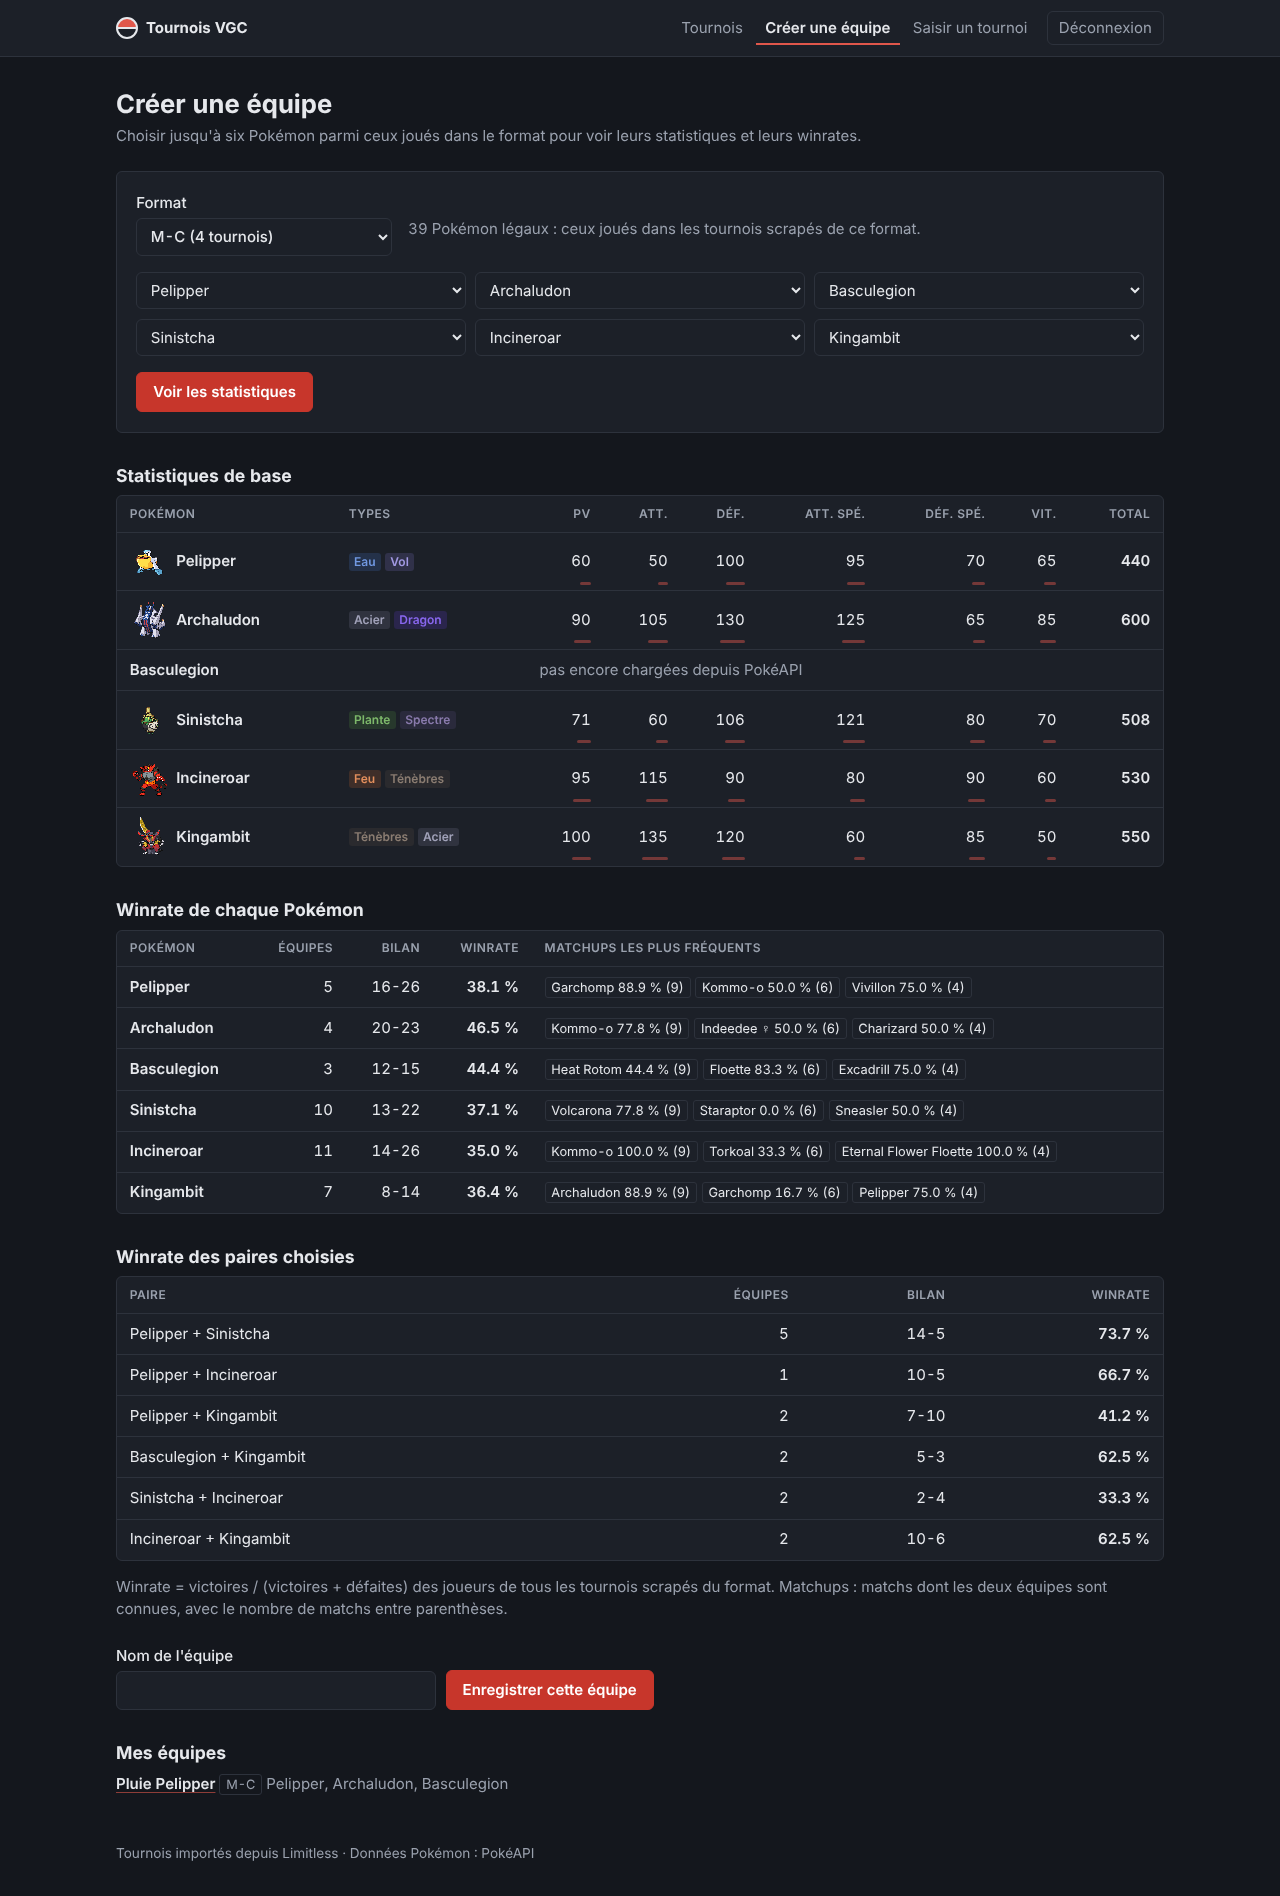
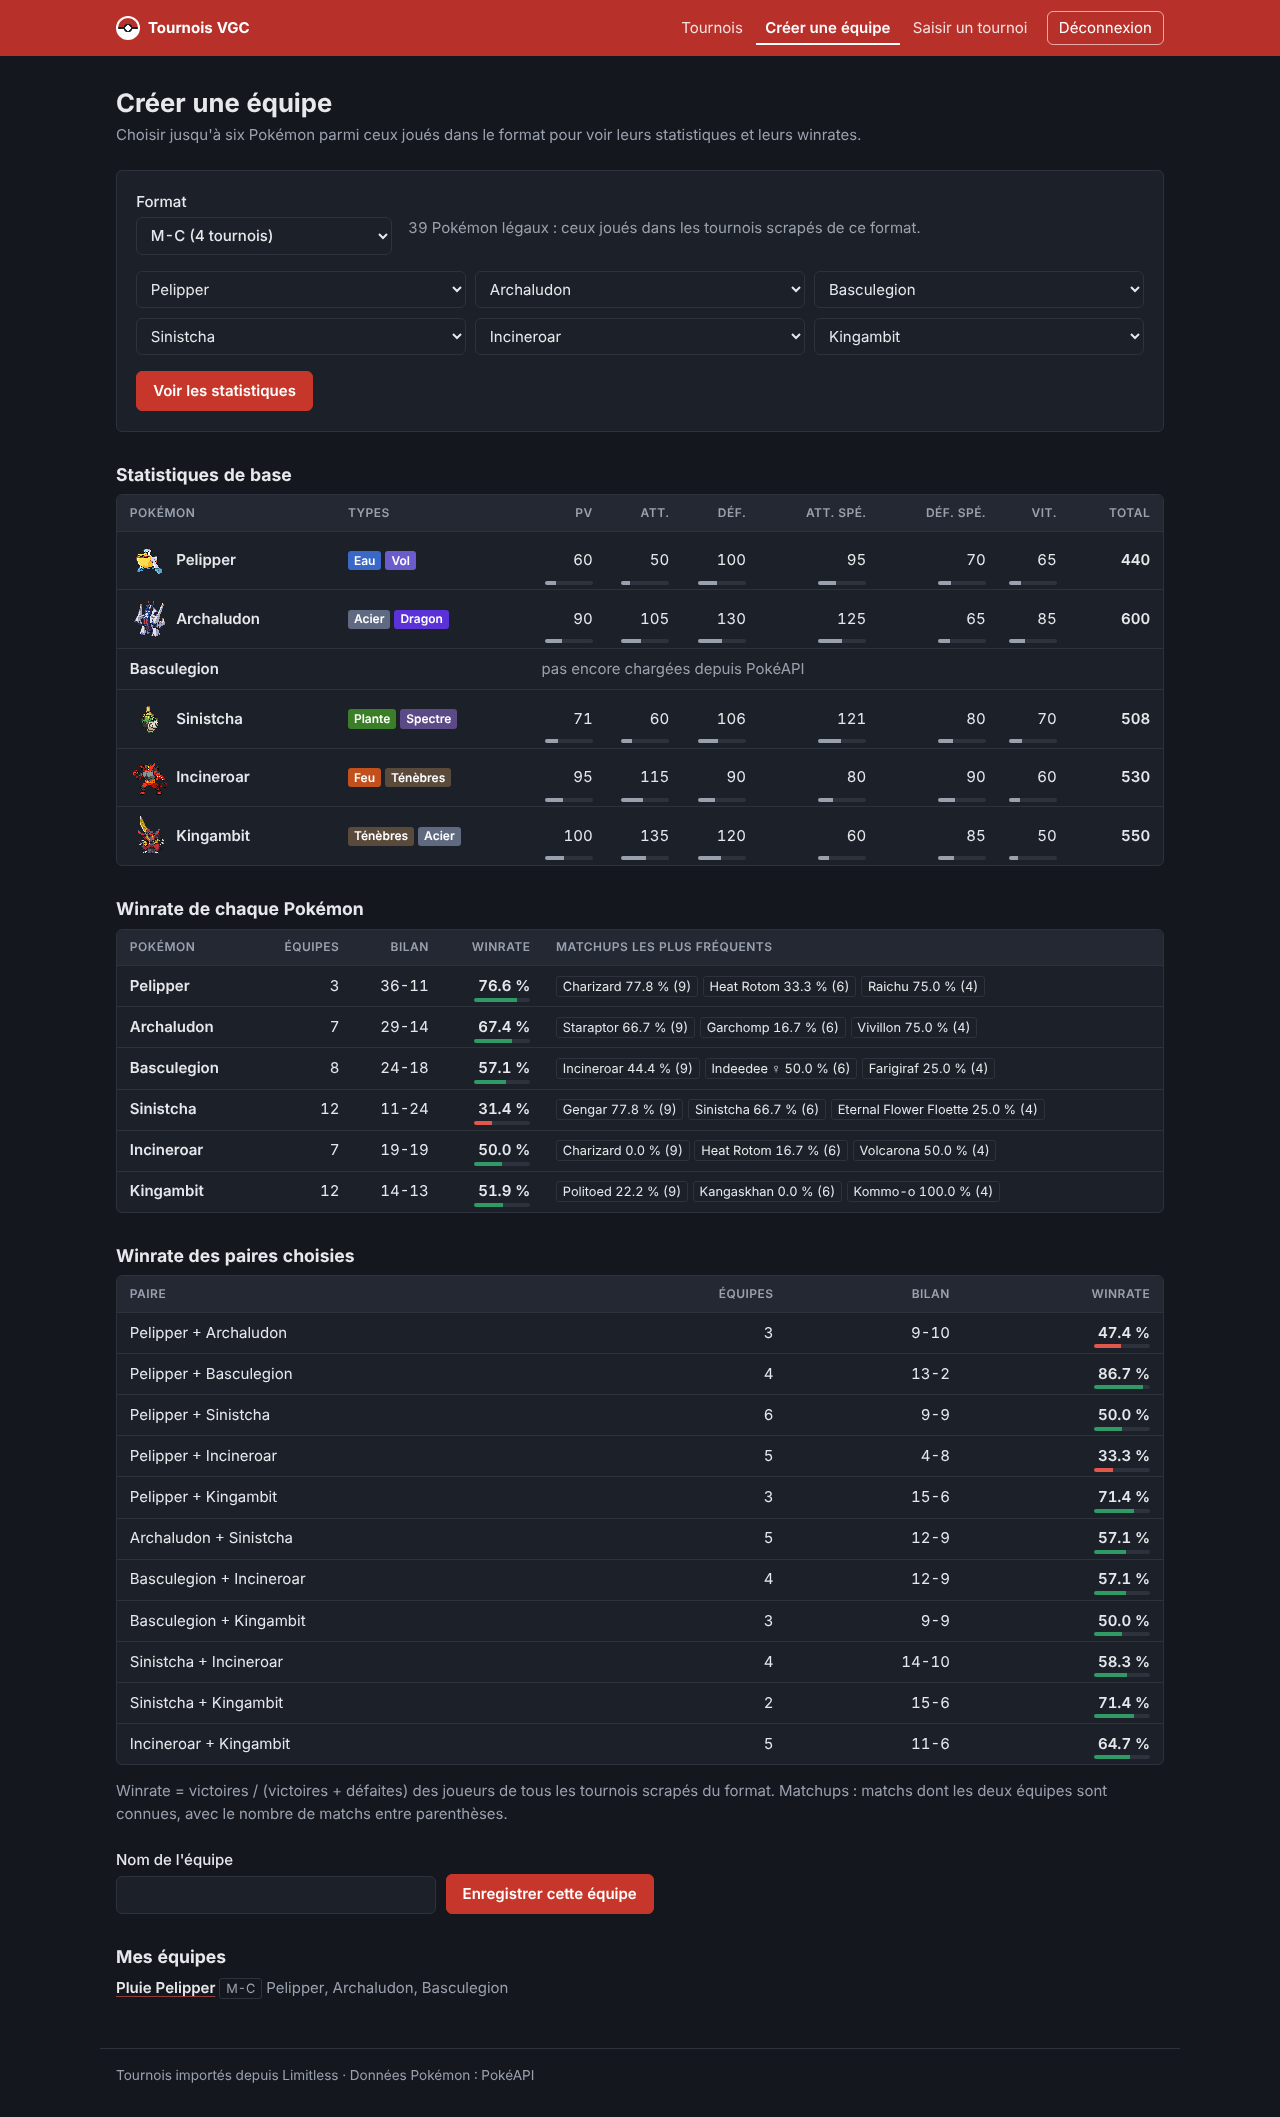
style(frontend): un peu plus de couleur sans perdre en lisibilité
Bandeau rouge, types en couleurs pleines (contraste ≥ 4,5), médailles
pour le top 3, sprites sur pastilles, cartes teintées par le premier
type, jauges de winrate vert/rouge (paire vérifiée pour le daltonisme)
et de statistiques de base.

Claude-Session: https://claude.ai/code/session_01PQWKmLo6vMcy11LaXKiBe6

diff --git a/services/frontend/app/static/style.css b/services/frontend/app/static/style.css
@@ -1,5 +1,5 @@
-/* Mise en page : une colonne centrée, en-tête clair, des tableaux et des listes plutôt que des cartes.
-   Couleurs : un fond gris bleuté, une encre sombre, un seul accent rouge (celui de la Poké Ball). */
+/* Mise en page : une colonne centrée sous un bandeau rouge, des tableaux et des listes plutôt que des cartes.
+   Couleurs : un fond gris bleuté, une encre sombre, le rouge de la Poké Ball, les couleurs des types. */
 :root {
   --bg: #f4f5f7;
   --surface: #fff;
@@ -10,6 +10,10 @@
   --accent-ink: #fff;
   --button: #c7362b; /* même rouge dans les deux thèmes : texte blanc lisible (contraste AA) */
   --ok: #1f7a4d;
+  --win: #1f7a4d; /* barres de winrate : paire vert/rouge vérifiée daltonisme (skill dataviz) */
+  --brand: #b8302a; /* bandeau : même rouge dans les deux thèmes */
+  --head: #eceef2; /* en-têtes de tableaux */
+  --gold: #e3b341; --silver: #b8bec8; --bronze: #c98a55;
   --radius: 6px;
   --font: system-ui, -apple-system, "Segoe UI", Roboto, "Helvetica Neue", Arial, sans-serif;
   color-scheme: light;
@@ -23,6 +27,8 @@
     --line: #2d323c;
     --accent: #e0574b;
     --ok: #4fbf87;
+    --win: #2f9a66;
+    --head: #232833;
     color-scheme: dark;
   }
 }
@@ -37,29 +43,33 @@ body {
 }
 a { color: inherit; text-decoration-color: color-mix(in srgb, var(--accent) 60%, transparent); text-underline-offset: 3px; }
 a:hover { color: var(--accent); }
+.site-header a:hover { color: #fff; }
+.site-header :focus-visible { outline-color: #fff; }
 :focus-visible { outline: 2px solid var(--accent); outline-offset: 2px; }
 h1, h2 { line-height: 1.2; text-wrap: balance; }
 h1 { font-size: 1.6rem; margin: 0 0 0.3rem; }
 h2 { font-size: 1.1rem; margin: 2rem 0 0.6rem; }
 code { background: var(--line); padding: 0 0.3em; border-radius: 3px; }
 
-/* En-tête */
-.site-header { background: var(--surface); border-bottom: 1px solid var(--line); }
+/* En-tête : bandeau rouge */
+.site-header { background: var(--brand); color: #fff; }
 .site-header .inner { display: flex; flex-wrap: wrap; align-items: center; justify-content: space-between; gap: 0.5rem 1.5rem; padding-block: 0.7rem; }
 .brand { display: flex; align-items: center; gap: 0.5rem; font-weight: 700; text-decoration: none; }
 .brand::before { /* Poké Ball minimaliste */
-  content: ""; width: 18px; height: 18px; border-radius: 50%; border: 2px solid var(--ink);
-  background: linear-gradient(var(--accent) 0 44%, var(--ink) 44% 56%, var(--surface) 56%);
+  content: ""; width: 20px; height: 20px; border-radius: 50%; border: 2px solid #fff;
+  background: radial-gradient(circle, #fff 0 18%, #1c2230 19% 30%, transparent 31%), linear-gradient(var(--brand) 0 44%, #1c2230 44% 56%, #fff 56%);
 }
 nav { display: flex; flex-wrap: wrap; align-items: center; gap: 0.2rem; }
-nav a { padding: 0.35rem 0.6rem; border-radius: var(--radius); text-decoration: none; color: var(--muted); }
-nav a:hover { color: var(--ink); background: var(--bg); }
-nav a[aria-current="page"] { color: var(--ink); font-weight: 600; box-shadow: inset 0 -2px var(--accent); border-radius: 0; }
+nav a { padding: 0.35rem 0.6rem; border-radius: var(--radius); text-decoration: none; color: rgb(255 255 255 / 0.85); }
+nav a:hover { color: #fff; background: rgb(0 0 0 / 0.15); }
+nav a[aria-current="page"] { color: #fff; font-weight: 600; box-shadow: inset 0 -2px #fff; border-radius: 0; }
+nav button.quiet { color: #fff; border-color: rgb(255 255 255 / 0.6); }
+nav button.quiet:hover { color: #fff; border-color: #fff; background: rgb(0 0 0 / 0.15); }
 nav form { margin: 0 0 0 0.4rem; }
 
 .inner { max-width: 1080px; margin: 0 auto; padding-left: max(16px, env(safe-area-inset-left, 0px)); padding-right: max(16px, env(safe-area-inset-right, 0px)); }
 main.inner { padding-block: 2rem 3rem; }
-.site-footer { color: var(--muted); font-size: 0.85rem; padding-block: 0 2rem; }
+.site-footer { color: var(--muted); font-size: 0.85rem; padding-block: 1rem 2rem; border-top: 1px solid var(--line); }
 
 /* Texte secondaire et messages */
 .meta, .country, .item, .ability { color: var(--muted); }
@@ -75,7 +85,7 @@ main.inner { padding-block: 2rem 3rem; }
 table { width: 100%; border-collapse: collapse; }
 th, td { padding: 0.55rem 0.8rem; border-bottom: 1px solid var(--line); text-align: left; vertical-align: middle; }
 tbody tr:last-child td { border-bottom: 0; }
-th { font-size: 0.75rem; font-weight: 600; text-transform: uppercase; letter-spacing: 0.04em; color: var(--muted); }
+th { background: var(--head); font-size: 0.75rem; font-weight: 600; text-transform: uppercase; letter-spacing: 0.04em; color: var(--muted); }
 tbody tr:hover { background: color-mix(in srgb, var(--bg) 60%, var(--surface)); }
 .num { white-space: nowrap; text-align: right; }
 .strong { font-weight: 600; }
@@ -105,19 +115,17 @@ fieldset label { flex-direction: row; align-items: center; gap: 0.5rem; font-wei
 .auth h1 { margin-bottom: 1rem; }
 .auth button { width: 100%; }
 
-/* Types (couleurs des jeux, adoucies) */
+/* Types : couleurs des jeux, assombries pour que le texte blanc reste lisible (contraste ≥ 4,5) */
 .type {
-  display: inline-block; padding: 0 0.45em; border-radius: 3px; font-size: 0.75rem; font-weight: 600;
-  --t: #8a8f99;
-  color: color-mix(in srgb, var(--t) 75%, var(--ink));
-  background: color-mix(in srgb, var(--t) 18%, var(--surface));
+  display: inline-block; padding: 0.05em 0.5em; border-radius: 3px; font-size: 0.75rem; font-weight: 600;
+  --t: #5f6a80; color: #fff; background: var(--t);
 }
 .types { display: flex; flex-wrap: wrap; gap: 0.25rem; }
-.t-normal { --t: #9a9a78; } .t-fire { --t: #e0702c; } .t-water { --t: #4a7fe0; } .t-electric { --t: #d4a800; }
-.t-grass { --t: #5aa83e; } .t-ice { --t: #5cbcbc; } .t-fighting { --t: #b8322a; } .t-poison { --t: #9a44a0; }
-.t-ground { --t: #c99a45; } .t-flying { --t: #8b7ee0; } .t-psychic { --t: #e5487a; } .t-bug { --t: #8fa021; }
-.t-rock { --t: #a8923a; } .t-ghost { --t: #6a5596; } .t-dragon { --t: #6a3cf0; } .t-dark { --t: #6b5848; }
-.t-steel { --t: #8a8aa8; } .t-fairy { --t: #d27a9a; }
+.t-normal { --t: #737353; } .t-fire { --t: #c2501d; } .t-water { --t: #3a68c8; } .t-electric { --t: #8a6d00; }
+.t-grass { --t: #3a7f27; } .t-ice { --t: #2a7d7d; } .t-fighting { --t: #a8302a; } .t-poison { --t: #8a3a92; }
+.t-ground { --t: #94702e; } .t-flying { --t: #6a5ccc; } .t-psychic { --t: #c83866; } .t-bug { --t: #6a7a14; }
+.t-rock { --t: #857230; } .t-ghost { --t: #5c4a86; } .t-dragon { --t: #5a32d8; } .t-dark { --t: #5a4a3c; }
+.t-steel { --t: #5f6a80; } .t-fairy { --t: #b0507a; }
 
 .sprite { image-rendering: pixelated; flex: none; }
 .flag { vertical-align: -1px; border-radius: 2px; }
@@ -135,17 +143,23 @@ fieldset label { flex-direction: row; align-items: center; gap: 0.5rem; font-wei
 .standings summary::after { content: "›"; color: var(--muted); font-size: 1.2rem; transition: transform 0.15s; justify-self: end; }
 .standings details[open] summary::after { transform: rotate(90deg); }
 .standings summary:hover { background: color-mix(in srgb, var(--bg) 60%, var(--surface)); }
-.place { font-weight: 700; text-align: center; }
-.top .place { color: var(--accent); }
+.place {
+  display: grid; place-items: center; width: 2rem; height: 2rem; border-radius: 50%;
+  font-weight: 700; background: var(--head);
+}
+.p1 .place { background: var(--gold); color: #3d2c00; }
+.p2 .place { background: var(--silver); color: #23272e; }
+.p3 .place { background: var(--bronze); color: #3a2010; }
 .player { min-width: 0; }
 .player strong { display: block; overflow-wrap: anywhere; }
 .player .country { font-size: 0.8rem; }
 .record { white-space: nowrap; }
 .roster { display: flex; flex-wrap: wrap; gap: 0.2rem; min-width: 0; }
-.roster span { display: flex; align-items: center; justify-content: center; width: 44px; height: 44px; font-size: 0.6rem; line-height: 1.1; text-align: center; color: var(--muted); overflow-wrap: anywhere; }
+.roster span { display: flex; align-items: center; justify-content: center; width: 46px; height: 46px; border-radius: 50%; background: var(--head); font-size: 0.6rem; line-height: 1.1; text-align: center; color: var(--muted); overflow-wrap: anywhere; }
 
 .sets { display: grid; grid-template-columns: repeat(auto-fill, minmax(15rem, 1fr)); gap: 0.6rem; padding: 0.2rem 0.8rem 1rem 3.8rem; }
-.mon { border: 1px solid var(--line); border-radius: var(--radius); padding: 0.6rem 0.75rem; font-size: 0.85rem; display: flex; flex-direction: column; gap: 0.25rem; }
+:where(.mon) { --t: var(--muted); } /* teinte par défaut, la classe t-<type> l'emporte */
+.mon { border: 1px solid color-mix(in srgb, var(--t) 30%, var(--line)); background: color-mix(in srgb, var(--t) 6%, var(--surface)); border-radius: var(--radius); padding: 0.6rem 0.75rem; font-size: 0.85rem; display: flex; flex-direction: column; gap: 0.25rem; }
 .mon-head { display: flex; flex-wrap: wrap; align-items: baseline; gap: 0.2rem 0.5rem; }
 .moves { margin: 0.2rem 0 0; padding-left: 1rem; }
 .moves .meta { font-size: 0.78rem; }
@@ -163,11 +177,15 @@ fieldset label { flex-direction: row; align-items: center; gap: 0.5rem; font-wei
 .toolbar { display: flex; flex-wrap: wrap; align-items: end; gap: 1rem; }
 .toolbar label { width: 16rem; max-width: 100%; }
 .mon-name { display: flex; align-items: center; gap: 0.4rem; font-weight: 600; white-space: nowrap; }
-.stat { position: relative; }
-.stat::after { /* barre proportionnelle à la statistique de base (max 255) */
-  content: ""; position: absolute; right: 0.8rem; bottom: 0.35rem; height: 3px; border-radius: 2px;
-  width: calc(3rem * var(--v) / 255); background: color-mix(in srgb, var(--accent) 45%, transparent);
+/* Petites jauges sous les nombres : statistique de base (sur 255) et winrate (sur 100 %) */
+.stat, .rate { position: relative; }
+.stat::after, .rate::after {
+  content: ""; position: absolute; right: 0.8rem; bottom: 0.3rem; width: var(--len); height: 4px; border-radius: 2px;
+  background: linear-gradient(90deg, var(--fill) var(--pct), var(--line) 0);
 }
+.stat { --len: 3rem; --fill: var(--muted); --pct: calc(var(--v) * 100% / 255); }
+.rate { --len: 3.5rem; --fill: var(--win); --pct: calc(var(--w) * 1%); }
+.rate.low { --fill: var(--accent); } /* sous 50 % */
 .matchups { display: flex; flex-wrap: wrap; gap: 0.3rem; }
 .save { display: flex; flex-wrap: wrap; align-items: end; gap: 0.6rem; margin-top: 1.5rem; }
 .save label { width: 20rem; max-width: 100%; }
@@ -181,8 +199,9 @@ fieldset label { flex-direction: row; align-items: center; gap: 0.5rem; font-wei
 form:has(input[value="winner"]:checked) .entry tbody tr:not(:first-child) { opacity: 0.35; }
 
 @media (max-width: 640px) {
-  .standings summary, .standings .row { grid-template-columns: 1.8rem 1fr auto 1rem; }
+  .standings summary, .standings .row { grid-template-columns: 2rem 1fr auto 1rem; }
   .roster { grid-column: 2 / -1; grid-row: 2; }
+  .roster span, .roster .sprite { width: 40px; height: 40px; } /* 6 sprites sur une ligne */
   .sets { padding-left: 0.8rem; }
   .slots { grid-template-columns: repeat(2, minmax(0, 1fr)); }
   .site-header .inner { flex-direction: column; align-items: flex-start; }

diff --git a/services/frontend/app/templates/builder.html b/services/frontend/app/templates/builder.html
@@ -1,6 +1,7 @@
 {% extends "base.html" %}
 {% block title %}Créer une équipe{% endblock %}
 {% macro pct(r) %}{% if r.winrate is not none %}{{ "%.1f" | format(r.winrate * 100) }} %{% else %}-{% endif %}{% endmacro %}
+{% macro rate(r) %}<td class="num strong rate{% if r.winrate is not none and r.winrate < 0.5 %} low{% endif %}" style="--w: {{ ((r.winrate or 0) * 100) | round(1) }}">{{ pct(r) }}</td>{% endmacro %}
 {% block content %}
 <h1>Créer une équipe</h1>
 {% if not formats %}
@@ -52,7 +53,7 @@
   <tbody>
   {% for r in stats %}
     <tr>
-      <td class="strong">{{ r.pokemon }}</td><td class="num">{{ r.teams }}</td><td class="num">{{ r.wins }}-{{ r.losses }}</td><td class="num strong">{{ pct(r) }}</td>
+      <td class="strong">{{ r.pokemon }}</td><td class="num">{{ r.teams }}</td><td class="num">{{ r.wins }}-{{ r.losses }}</td>{{ rate(r) }}
       <td><div class="matchups">{% for m in matchups[r.pokemon] %}<span>{{ m.opponent }} {{ pct(m) }} ({{ m.games }})</span>{% else %}<span class="meta">aucun</span>{% endfor %}</div></td>
     </tr>
   {% endfor %}
@@ -66,7 +67,7 @@
   <thead><tr><th>Paire</th><th class="num">Équipes</th><th class="num">Bilan</th><th class="num">Winrate</th></tr></thead>
   <tbody>
   {% for r in pairs %}
-    <tr><td>{{ r.pokemon1 }} + {{ r.pokemon2 }}</td><td class="num">{{ r.teams }}</td><td class="num">{{ r.wins }}-{{ r.losses }}</td><td class="num strong">{{ pct(r) }}</td></tr>
+    <tr><td>{{ r.pokemon1 }} + {{ r.pokemon2 }}</td><td class="num">{{ r.teams }}</td><td class="num">{{ r.wins }}-{{ r.losses }}</td>{{ rate(r) }}</tr>
   {% endfor %}
   </tbody>
 </table>

diff --git a/services/frontend/app/templates/tournament.html b/services/frontend/app/templates/tournament.html
@@ -22,13 +22,13 @@
 <p class="meta">Cliquer sur un joueur pour voir les objets, talents et attaques de son équipe.</p>
 <ol class="standings">
 {% for s in t.standings %}
-  <li{% if s.placement and s.placement <= 3 %} class="top"{% endif %}>
+  <li{% if s.placement and s.placement <= 3 %} class="p{{ s.placement }}"{% endif %}>
   {% if s.team %}
     <details>
       <summary>{{ row(s) }}</summary>
       <div class="sets">
       {% for p in s.team %}
-        <div class="mon">
+        <div class="mon{% if p.types %} t-{{ p.types[0] }}{% endif %}">
           <div class="mon-head"><strong>{{ p.name }}</strong>{% if p.item %} <span class="item">@ {{ p.item }}</span>{% endif %}</div>
           {% if p.types %}<div class="types">{% for ty in p.types %}<span class="type t-{{ ty }}">{{ ty | type_fr }}</span>{% endfor %}</div>{% endif %}
           {% if p.ability %}<div class="ability">{{ p.ability }}</div>{% endif %}

diff --git a/services/frontend/tests/test_pages.py b/services/frontend/tests/test_pages.py
@@ -138,6 +138,8 @@ def test_detail_affiche_le_classement_et_l_equipe(api):
         "Close Combat</li>" in resp.text
     )  # sans détails tant qu'elle n'est pas enrichie
     assert 'src="https://flagcdn.com/w20/jp.png"' in resp.text
+    assert '<li class="p1">' in resp.text  # médaille d'or du 1er
+    assert '<div class="mon t-normal">' in resp.text  # carte teintée par le 1er type
     assert resp.text.count('class="sprite"') == 1  # Indeedee n'a pas de sprite
 
 
@@ -374,7 +376,7 @@ def stats_api(monkeypatch):
         "http://api/api/formats/F1/legal-pokemon": ["X", "Y", "Z"],
         f"http://api/api/stats/pokemon?{q}": [
             {"pokemon": "X", "teams": 2, "wins": 5, "losses": 1, "winrate": 0.8333},
-            {"pokemon": "Y", "teams": 2, "wins": 4, "losses": 2, "winrate": 0.6667},
+            {"pokemon": "Y", "teams": 2, "wins": 2, "losses": 3, "winrate": 0.4},
         ],
         f"http://api/api/stats/combinations?{q}": [
             {
@@ -422,6 +424,10 @@ def test_builder_affiche_les_winrates(stats_api):
     )
     assert "83.3 %" in resp.text and "X + Y" in resp.text and "100.0 %" in resp.text
     assert "Z 100.0 % (5)" in resp.text  # matchup
+    assert '<td class="num strong rate" style="--w: 83.3">83.3 %</td>' in resp.text
+    assert (
+        '<td class="num strong rate low" style="--w: 40.0">40.0 %</td>' in resp.text
+    )  # < 50 % : jauge rouge
     assert '<span class="type t-water">Eau</span>' in resp.text
     assert '<td class="num strong">21</td>' in resp.text  # total des statistiques de X
     assert "pas encore chargées depuis PokéAPI" in resp.text  # Y
